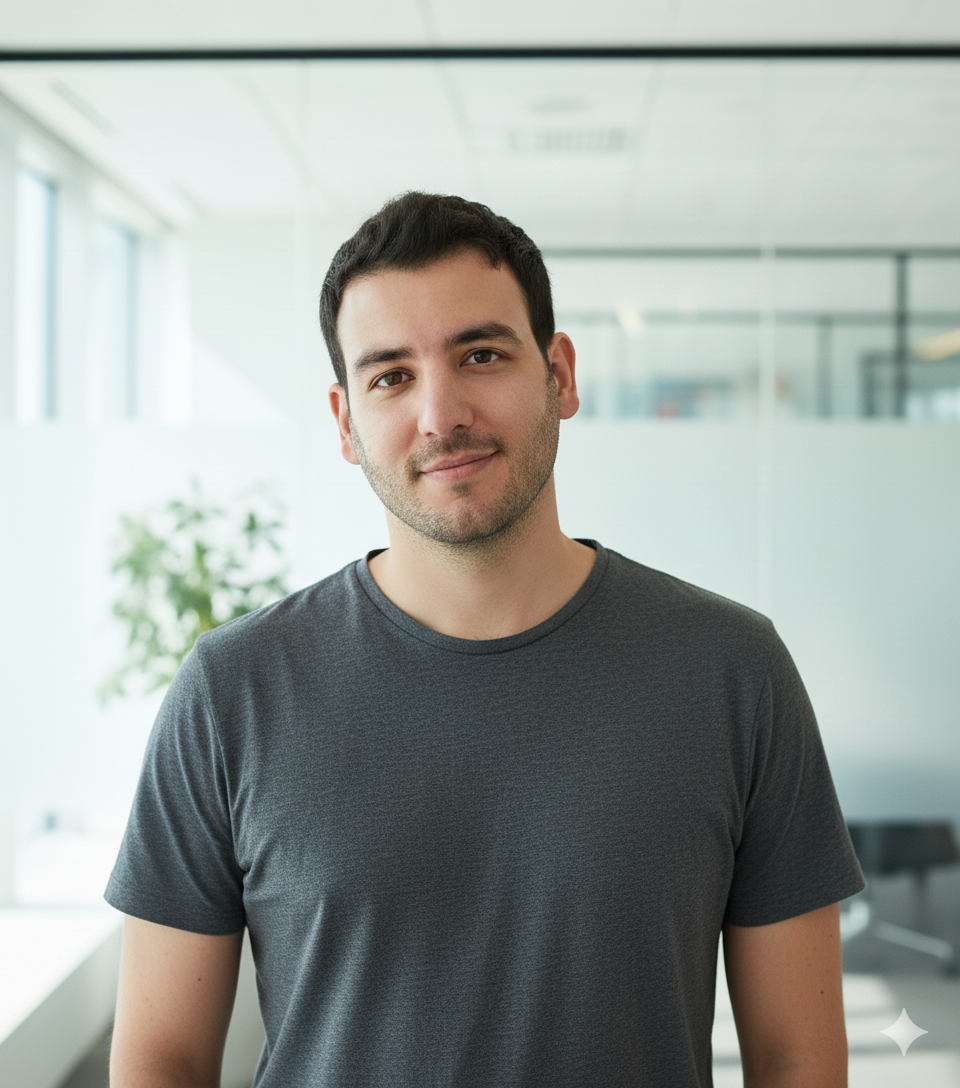
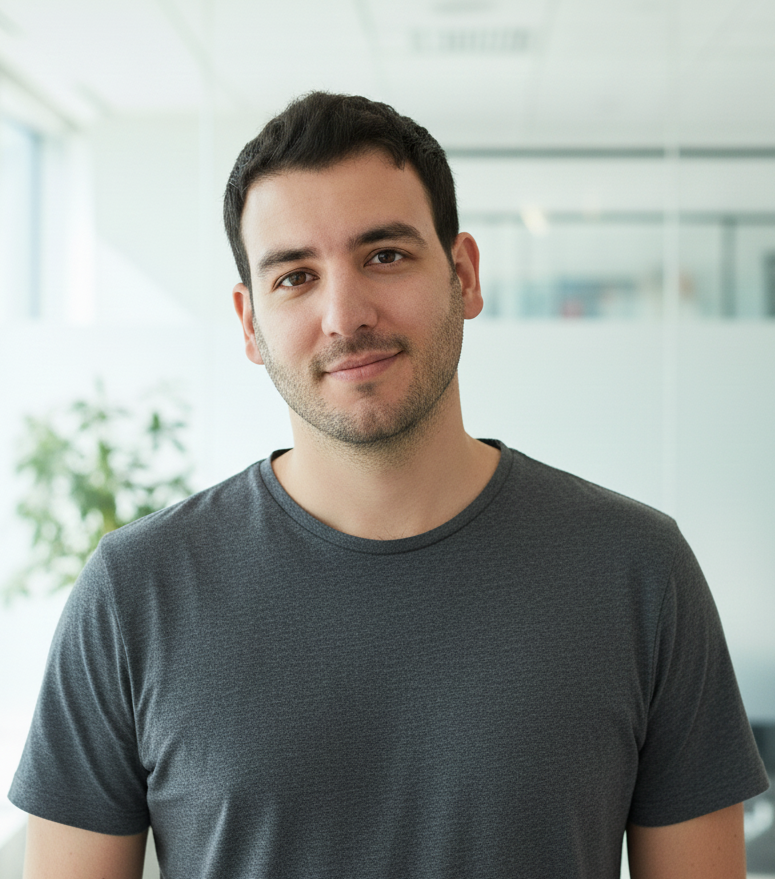
feat: Update personal information and profile image styling

diff --git a/script.js b/script.js
@@ -45,7 +45,7 @@ function populateWebsite() {
                 // Check if it's an image file or Font Awesome icon
                 if (config.personal.profileImage.startsWith('images/') || config.personal.profileImage.startsWith('http')) {
                     // It's an image file
-                    profileImage.innerHTML = `<img src="${config.personal.profileImage}" alt="Profile Image" style="width: 100%; height: 100%; object-fit: cover; border-radius: 50%;">`;
+                    profileImage.innerHTML = `<img src="${config.personal.profileImage}" alt="Profile Image" style="width: 100%; height: 100%; object-fit: cover; border-radius: 20px;">`;
                 } else {
                     // It's a Font Awesome icon
                     profileImage.innerHTML = `<i class="${config.personal.profileImage}"></i>`;

diff --git a/index.html b/index.html
@@ -3,7 +3,7 @@
 <head>
     <meta charset="UTF-8">
     <meta name="viewport" content="width=device-width, initial-scale=1.0">
-    <title>Ali Akbar - Portfolio</title>
+    <title>Aliakbar Golestani</title>
     <link rel="stylesheet" href="styles.css">
     <link href="https://cdnjs.cloudflare.com/ajax/libs/font-awesome/6.0.0/css/all.min.css" rel="stylesheet">
     <link href="https://fonts.googleapis.com/css2?family=Inter:wght@300;400;500;600;700&display=swap" rel="stylesheet">
@@ -153,7 +153,7 @@
     <!-- Footer -->
     <footer class="footer">
         <div class="container">
-            <p>&copy; 2024 Ali Akbar. All rights reserved.</p>
+            <p>&copy; 2024 Aliakbar Golestani. All rights reserved.</p>
         </div>
     </footer>
 

diff --git a/styles.css b/styles.css
@@ -224,7 +224,7 @@ body {
     width: 200px;
     height: 200px;
     background: rgba(51, 65, 85, 0.3);
-    border-radius: 50%;
+    border-radius: 20px;
     display: flex;
     align-items: center;
     justify-content: center;
